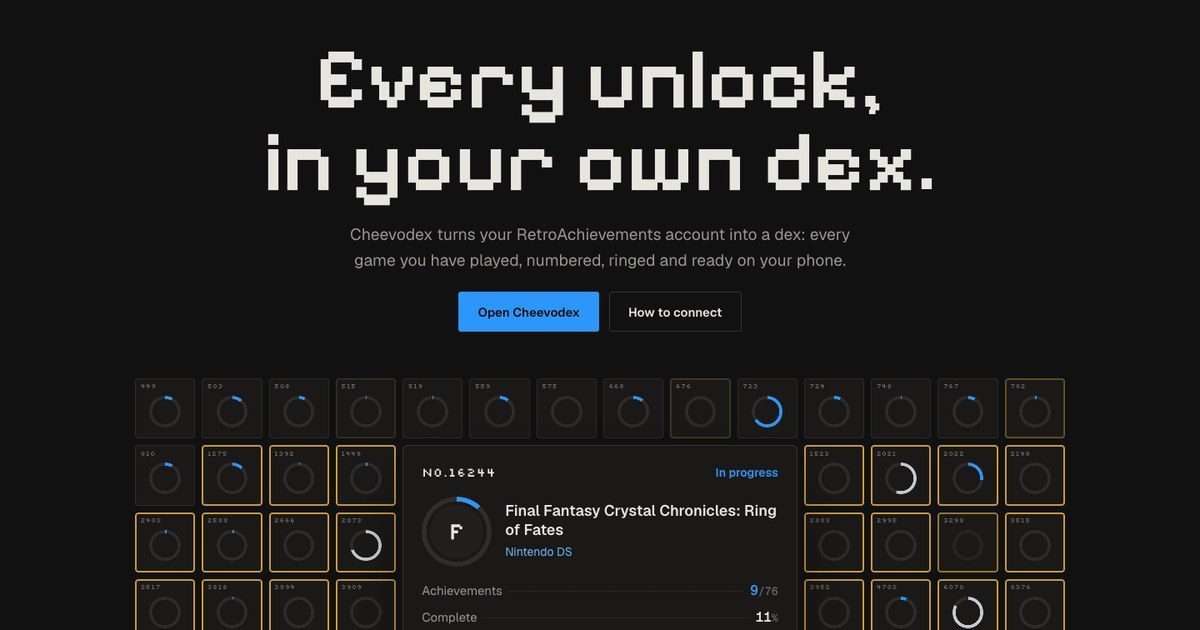
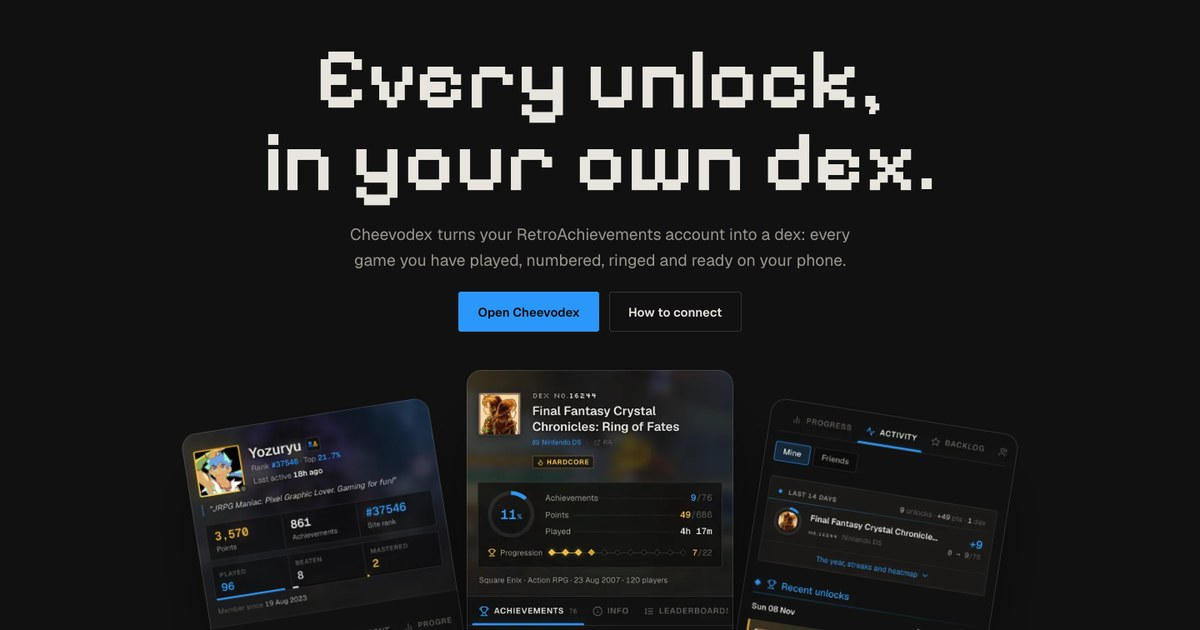
feat: hero fans three real phone screens
Replaces the tile grid: under the centred headline, the Dex, a dex record
and Activity as real screenshots, spread once on load like a hand of
cards, with the dex entry writing itself in front.

Claude-Session: https://claude.ai/code/session_01EeEDH1FGz51LdHyJv8MWQV

diff --git a/src/styles/home.css b/src/styles/home.css
@@ -1,6 +1,6 @@
 /* Landing page. Paced like Playdate's (one idea per full-colour band, a short heading with a full stop, a line
    with some fun in it) and stocked like Backloggd's (the author's real games, set as a collection). The
-   compositions are the codex's own: the hero is a dex page whose icons register as you arrive, the record is
+   compositions are the codex's own: the hero fans three real phone screens like a hand of cards, the record is
    a manual page with its parts called out, the setup is a progression path. */
 
 /* ── Shared pieces ── */
@@ -58,45 +58,27 @@
 .cta { display: flex; flex-wrap: wrap; gap: 12px; justify-content: center; }
 .split-copy .cta, .setup-path .cta { justify-content: flex-start; }
 
-.dexgrid { --cols: 14; --gap: 8px; display: grid; grid-template-columns: repeat(var(--cols), minmax(0, 1fr)); gap: var(--gap); grid-auto-flow: dense; }
-.cell { --c: var(--accent); position: relative; aspect-ratio: 1; border-radius: 4px; overflow: hidden; display: grid; place-items: center;
-        background: var(--box); outline: 1px solid var(--line); outline-offset: -1px; transition: background-color 500ms var(--ease); }
-.cell.s-beaten { --c: var(--silver); } .cell.s-mastered { --c: var(--gold); background: rgb(242 183 49 / 0.08); }
-.cell.s-unstarted { --c: var(--line-2); }
-.cell-no { position: absolute; top: 7%; left: 9%; font: 8px/1 var(--pixel); color: var(--ink-3); letter-spacing: 0.04em; }
-.cell-ring { width: 52%; aspect-ratio: 1; border-radius: 50%; margin-top: 10%;
-             background: conic-gradient(var(--c) calc(var(--p) * 1%), rgb(232 229 223 / 0.09) 0);
-             -webkit-mask: radial-gradient(farthest-side, transparent calc(100% - 4px), #000 calc(100% - 3.5px));
-                     mask: radial-gradient(farthest-side, transparent calc(100% - 4px), #000 calc(100% - 3.5px)); transition: filter 500ms var(--ease); }
-.cell.s-mastered .cell-ring { filter: drop-shadow(0 0 5px rgb(242 183 49 / 0.6)); }
-.cell.dim .cell-ring { filter: grayscale(1) brightness(0.5); }
-.cell.dim { background: var(--box); }
-.cell.reg::after { content: ''; position: absolute; inset: 0; border-radius: 4px; box-shadow: inset 0 0 0 2px var(--gold); opacity: 0; animation: register 900ms var(--ease) both; }
-@keyframes register { 15% { opacity: 1; } to { opacity: 0; } }
-/* The opened entry: six cells wide, four tall, in the middle of the collection */
-.cell-entry { position: relative; z-index: 1; grid-column: 5 / 11; grid-row: 2 / 6; display: flex; }
-.cell-entry > * { width: 100%; }
-.cell-entry .hdex { height: 100%; justify-content: space-between; box-shadow: 0 0 0 6px var(--page), 0 30px 70px -20px rgb(0 0 0 / 0.9); }
-/* Whole rows only: 6 rows of 14 less the entry's 24 cells; 8 of 8 less 24; 8 of 5 less 25 */
-.dexgrid > .cell:nth-of-type(n+61) { display: none; }
-.hero-foot { display: flex; flex-wrap: wrap; justify-content: space-between; align-items: end; gap: 16px 32px; margin-top: 20px; }
-.dexgrid-note { color: var(--ink-3); font-size: 14px; }
-.hero-facts { display: flex; gap: 32px; margin: 0; }
+/* The fan: three real phone screens, spread once on load like a hand of cards, the dex entry in front */
+.fan { position: relative; height: clamp(520px, 52vw, 680px); max-width: 980px; margin: 0 auto; }
+.fan-card { position: absolute; left: 50%; top: 0; width: clamp(200px, 23vw, 300px); border-radius: 18px; outline: 1px solid rgb(232 229 223 / 0.14); outline-offset: -1px;
+            box-shadow: 0 40px 80px -30px rgb(0 0 0 / 0.9); transform-origin: 50% 120%; animation: fan-out 1100ms 200ms var(--ease) both; }
+.f-c { z-index: 2; width: clamp(220px, 25vw, 320px); --t: translateX(-50%) translateY(-10px); }
+.f-l { z-index: 1; --t: translateX(-50%) translateX(-78%) translateY(36px) rotate(-9deg); }
+.f-r { z-index: 1; --t: translateX(-50%) translateX(78%) translateY(36px) rotate(9deg); }
+.fan-card { transform: var(--t); }
+@keyframes fan-out { from { transform: translateX(-50%) translateY(40px) rotate(0); opacity: 0; } to { transform: var(--t); opacity: 1; } }
+.fan-entry { position: absolute; z-index: 3; left: 0; right: 0; bottom: 0; margin-inline: auto; width: min(440px, 100%); animation: settle 700ms 700ms var(--ease) both; }
+.fan::after { content: ''; position: absolute; z-index: 2; left: 0; right: 0; bottom: 0; height: 45%; background: linear-gradient(transparent, var(--page) 62%); pointer-events: none; }
+.hero-facts { display: flex; flex-wrap: wrap; justify-content: center; gap: 16px 40px; margin: 40px 0 0; text-align: center; }
 .hero-facts dt { color: var(--ink-3); font-size: 13px; }
-.hero-facts dd { margin: 2px 0 0; font: 600 22px/1.1 var(--mono); color: var(--ink); }
-@media (max-width: 1099px) {
-    .dexgrid { --cols: 8; }
-    .cell-entry { grid-column: 2 / 8; grid-row: 2 / 6; }
-    .dexgrid > .cell:nth-of-type(n+41) { display: none; }
-    .dexgrid > .cell:nth-of-type(-n+40) { display: block; }
+.hero-facts dd { margin: 4px 0 0; font: 600 20px/1.1 var(--mono); color: var(--ink); }
+@media (max-width: 700px) {
+    .fan { height: 560px; }
+    .fan-card { width: 38vw; } .f-c { width: 46vw; }
+    .f-l { --t: translateX(-50%) translateX(-54%) translateY(26px) rotate(-7deg); }
+    .f-r { --t: translateX(-50%) translateX(54%) translateY(26px) rotate(7deg); }
 }
-@media (max-width: 699px) {
-    .dexgrid { --cols: 5; --gap: 6px; }
-    .cell-entry { grid-column: 1 / 6; grid-row: 2 / 7; }
-    .cell-entry .hdex { box-shadow: 0 0 0 4px var(--page); }
-    .dexgrid > .cell:nth-of-type(n+16) { display: none; }
-    .dexgrid > .cell:nth-of-type(-n+15) { display: block; }
-}
+@media (prefers-reduced-motion: reduce) { .fan-card, .fan-entry { animation: none; } }
 
 /* The dex entry writing itself */
 .hdex { position: relative; width: 100%; display: flex; flex-direction: column; gap: 16px; padding: 20px 22px 16px;
@@ -279,5 +261,4 @@
 @media (prefers-reduced-motion: reduce) {
     .js .reveal { opacity: 1; transform: none; }
     .ring { transition: none; }
-    .cell.reg::after { animation: none; }
 }

diff --git a/README.md b/README.md
@@ -8,7 +8,7 @@ The app itself lives in its own repo and runs at <https://yozuryu.github.io/chee
 
 [Astro](https://astro.build) with React for the parts that move or respond (the hero's dex entry, the dex record, the moved rows, the friend-colour try-out and the contents switcher), static HTML everywhere else.
 
-The page is paced like Playdate's (one idea per full-colour band, short headings with a full stop), opens on the author's dex drawn as Cheevodex's own cells, and runs Analogue's ticker of the systems RetroAchievements covers; everything drawn is Cheevodex's own. The SEO head (canonical, Open Graph, Twitter card, JSON-LD) is in `src/layouts/Base.astro`; Astro writes the sitemap.
+The page is paced like Playdate's (one idea per full-colour band, short headings with a full stop), opens on three real phone screens fanned like a hand of cards, and runs Analogue's ticker of the systems RetroAchievements covers; everything drawn is Cheevodex's own. The SEO head (canonical, Open Graph, Twitter card, JSON-LD) is in `src/layouts/Base.astro`; Astro writes the sitemap.
 
 ```sh
 npm install
@@ -20,7 +20,7 @@ Pushing to `main` builds and deploys to GitHub Pages (`.github/workflows/deploy.
 
 ## Pictures
 
-The only game art and achievement badges on the site are inside real screenshots of the app (`src/assets/shots/`, captured at 2x, converted to WebP at build), showing what Cheevodex does. Everything drawn on the page is the site's own: the hero's dex cells come from the author's real dex numbers and progress (`src/lib/dex.json`), and the built pieces show a game's monogram instead of its icon. Badges and icons on RetroAchievements are made by its community and the games' publishers, so they are not used as decoration. `public/assets/og.jpg` is the 1200 x 630 share image, taken from the hero.
+The only game art and achievement badges on the site are inside real screenshots of the app (`src/assets/shots/`, captured at 2x, converted to WebP at build), showing what Cheevodex does. Everything drawn on the page is the site's own: the built pieces show a game's monogram instead of its icon. Badges and icons on RetroAchievements are made by its community and the games' publishers, so they are not used as decoration. `public/assets/og.jpg` is the 1200 x 630 share image, taken from the hero.
 
 ## Licence
 
